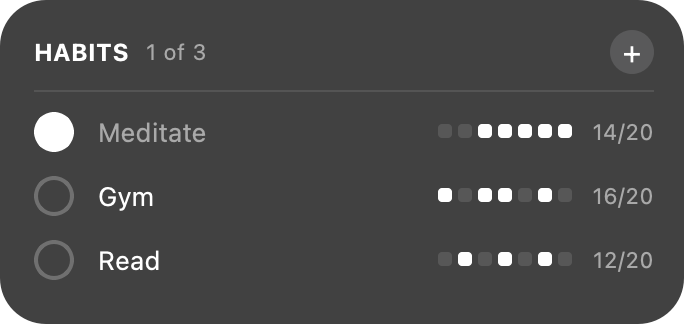
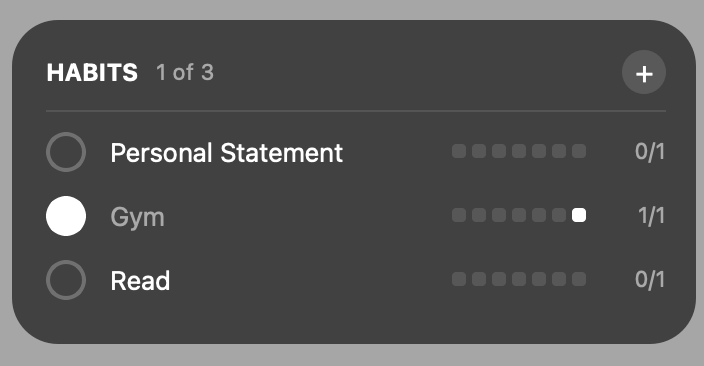
Use real screenshots of the widget and History window

diff --git a/README.md b/README.md
@@ -3,7 +3,7 @@
 A minimal habit tracker that lives on your macOS desktop and looks like a native widget, without needing Xcode.
 
 <p>
-  <img src="images/widget.png" width="342" alt="Habit widget">
+  <img src="images/widget.png" width="352" alt="Habit widget">
 </p>
 
 Click the widget to open your history:
